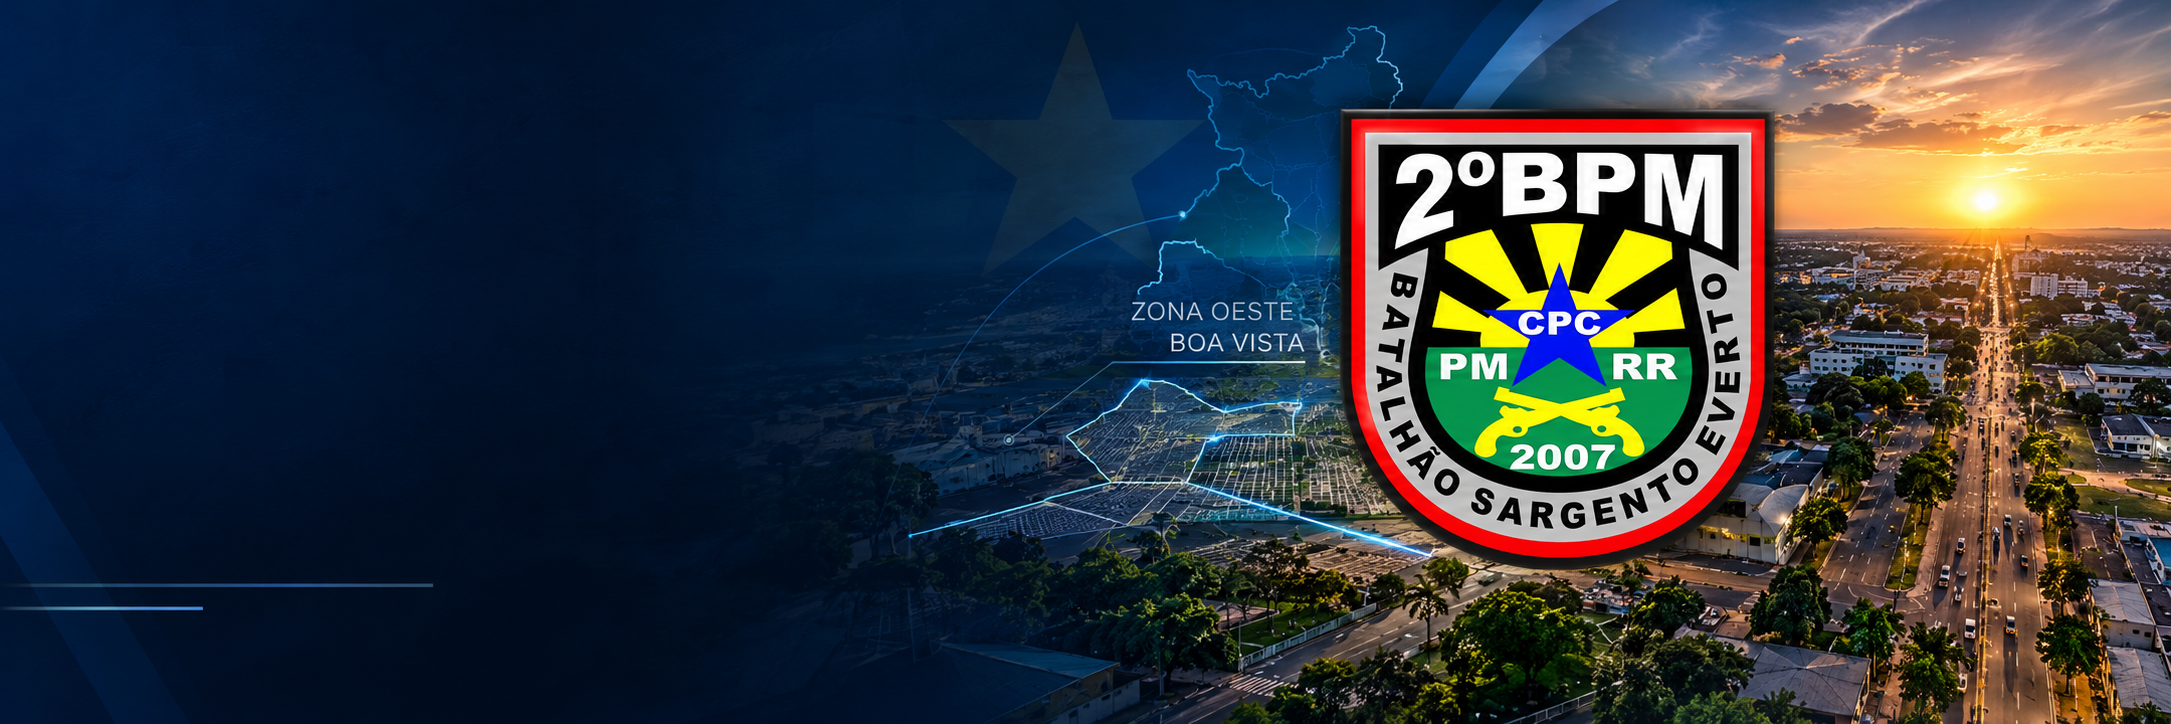
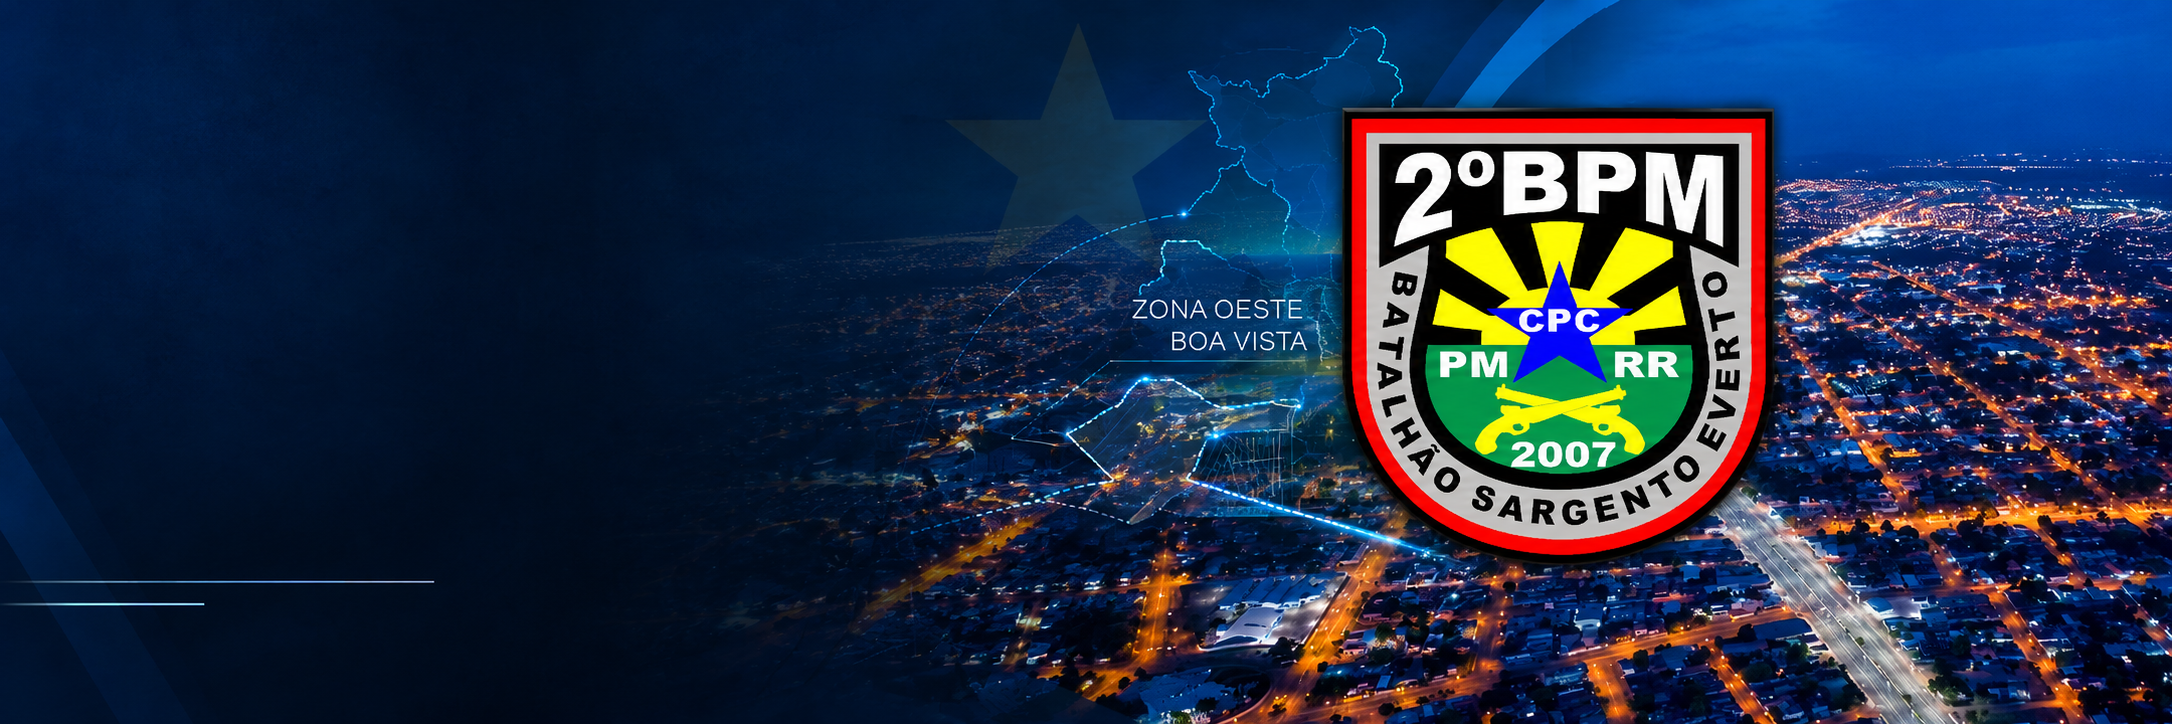
feat: atualiza capa do 2 BPM no painel e dashboard

diff --git a/index.html b/index.html
@@ -20,10 +20,10 @@ footer{text-align:center;color:var(--muted);font-size:12px;padding:12px 0 30px}
 @media(max-width:850px){.kpis{grid-template-columns:1fr 1fr}.layout,.insights{grid-template-columns:1fr}.actions{grid-template-columns:1fr 1fr}.search{grid-template-columns:1fr}.searchForm,.search input{width:100%}.top{align-items:flex-start}.hero{padding-left:5%;padding-right:5%}}@media(max-width:500px){.kpis{grid-template-columns:1fr}.hero{padding-bottom:65px}.container{margin-top:-40px}.actions,.compareGrid{grid-template-columns:1fr}.kpi{padding:17px}}@media(max-width:700px){body.modo-giro .hero{min-height:500px;background-position:58% center;background-image:linear-gradient(180deg,rgba(2,12,29,.92) 0%,rgba(2,18,39,.68) 55%,rgba(2,18,39,.38) 100%),url("assets/capa-giro-noturna.png?v=20261003-giro-banner2")}}@media(max-width:768px){body.modo-2bpm .hero{min-height:500px;background-position:76% center;background-image:linear-gradient(90deg,rgba(1,13,36,.99) 0%,rgba(1,19,48,.94) 48%,rgba(1,24,58,.56) 100%),url("assets/banners/2bpm-home-banner.png?v=20261012-2bpm-home2")}body.modo-2bpm .heroCopy{max-width:82%}}@media(max-width:768px){body.modo-ciptur .hero{min-height:500px;background-position:72% center;background-image:linear-gradient(90deg,rgba(2,16,45,.99) 0%,rgba(3,27,72,.97) 43%,rgba(3,35,82,.72) 68%,rgba(3,35,82,.32) 100%),url("assets/banners/ciptur-home-banner.png?v=20261002-ciptur-home-banner1")}body.modo-ciptur .heroCopy{max-width:82%}}
 .mapPanel{margin-top:18px}.mapFilters{display:flex;gap:10px;flex-wrap:wrap;margin:14px 0}.mapFilters select,.mapFilters input{border:1px solid #d5e0ea;border-radius:10px;padding:9px 11px;background:#fff;color:var(--ink)}#mapa{height:390px;border-radius:15px;overflow:hidden;background:#dfe8ef}.mapStatus{font-size:12px;color:var(--muted);margin-top:9px}.leaflet-popup-content{font-family:Inter,Segoe UI,Arial,sans-serif;line-height:1.4}.mapLegend{background:#fffffff2;border:1px solid #d8e2eb;border-radius:12px;padding:9px 11px;box-shadow:0 4px 14px #102a4322;line-height:1.7;color:#334155;font-size:11px}.mapLegend b{display:block;color:#102a43;margin-bottom:3px}.mapLegend i{display:inline-block;width:10px;height:10px;border-radius:50%;margin-right:6px;border:1px solid #fff;box-shadow:0 0 0 1px #94a3b8}.giro-moto-marker{background:transparent!important;border:0!important}.giro-moto-marker span{display:grid;place-items:center;width:26px;height:26px;font-size:21px;line-height:1;filter:grayscale(1) brightness(.15);transform:translateY(-1px);text-shadow:0 1px 1px #fff,0 0 2px #fff}.mapLegend .motoLegend{display:inline-block;width:auto;height:auto;border:0;box-shadow:none;border-radius:0;margin-right:5px;font-size:15px;filter:grayscale(1) brightness(.15)}.cpcScopeHero{margin-top:13px;display:inline-flex;gap:8px;flex-wrap:wrap;align-items:center;background:#ffffff12;border:1px solid #ffffff28;border-radius:12px;padding:9px 12px;color:#d8ebf5;font-size:12px;font-weight:800}.cpcUnitsPanel{margin-top:18px}.cpcUnitsGrid{display:grid;grid-template-columns:repeat(3,1fr);gap:12px}.cpcUnitCard{border:1px solid #dbe5ed;background:#fbfdff;border-radius:15px;padding:15px;text-align:left;cursor:pointer;color:var(--ink);transition:.18s;position:relative}.cpcUnitCard:hover,.cpcUnitCard.active{transform:translateY(-2px);border-color:#7da8c7;box-shadow:0 8px 22px #102e4a12}.cpcUnitCard.active{background:#eef7fb}.cpcUnitCard b{display:block;color:var(--navy);font-size:15px}.cpcUnitCard small{display:block;color:var(--muted);margin-top:3px}.cpcUnitMetrics{display:grid;grid-template-columns:repeat(4,1fr);gap:7px;margin-top:12px}.cpcUnitMetrics span{background:white;border:1px solid #e1e8ef;border-radius:9px;padding:8px 6px;text-align:center;font-size:10px;color:var(--muted)}.cpcUnitMetrics strong{display:block;color:var(--navy);font-size:16px;margin-bottom:2px}.cpcFilterActive{margin-top:10px;color:var(--blue);font-size:12px;font-weight:900}.cpcActionsTitle{margin-top:20px;background:linear-gradient(105deg,#071b33,#0e4f8a);color:#fff;border-radius:16px;padding:15px 18px}.cpcActionsTitle b{display:block;font-size:16px}.cpcActionsTitle span{display:block;color:#c9dceb;font-size:12px;margin-top:3px}.action.cpcPrimary{background:linear-gradient(120deg,#071b33,#0e4f8a);color:#fff;border-color:#0e4f8a;box-shadow:0 8px 22px #071b3320}.mapFilters .cpcOnly{display:none}body.modo-cpc .mapFilters .cpcOnly{display:inline-block}body.modo-cpc .search{border:1px solid #d6e4ee}@media(max-width:850px){.cpcUnitsGrid{grid-template-columns:1fr}.cpcUnitMetrics{grid-template-columns:1fr 1fr}}@media(max-width:500px){.cpcUnitMetrics{grid-template-columns:1fr 1fr}}
 </style><style id="2bpm-banner-styles-v2">
-body.modo-2bpm .hero{min-height:340px;background-color:#03172f;background-image:linear-gradient(90deg,rgba(1,14,38,.96) 0%,rgba(1,20,50,.82) 36%,rgba(1,24,57,.22) 68%),url("assets/banners/2bpm-home-banner.png?v=20261012-2bpm-home2");background-position:center,right center;background-size:100% 100%,contain;background-repeat:no-repeat;box-shadow:inset 0 -85px 90px rgba(1,13,34,.4)}
+body.modo-2bpm .hero{min-height:340px;background-color:#03172f;background-image:linear-gradient(90deg,rgba(1,14,38,.96) 0%,rgba(1,20,50,.82) 36%,rgba(1,24,57,.22) 68%),url("assets/banners/2bpm-home-banner.png?v=20261012-2bpm-night3");background-position:center,right center;background-size:100% 100%,contain;background-repeat:no-repeat;box-shadow:inset 0 -85px 90px rgba(1,13,34,.4)}
 body.modo-2bpm .hero:after{display:none}
 body.modo-2bpm .hero .top,body.modo-2bpm .hero .heroCopy{position:relative;z-index:1;text-shadow:0 2px 10px rgba(0,0,0,.88)}
-@media(max-width:768px){body.modo-2bpm .hero{min-height:420px;background-position:center,right center;background-size:100% 100%,contain;background-image:linear-gradient(90deg,rgba(1,13,36,.99) 0%,rgba(1,19,48,.95) 48%,rgba(1,24,58,.62) 100%),url("assets/banners/2bpm-home-banner.png?v=20261012-2bpm-home2")}body.modo-2bpm .heroCopy{max-width:82%}}
+@media(max-width:768px){body.modo-2bpm .hero{min-height:420px;background-position:center,right center;background-size:100% 100%,contain;background-image:linear-gradient(90deg,rgba(1,13,36,.99) 0%,rgba(1,19,48,.95) 48%,rgba(1,24,58,.62) 100%),url("assets/banners/2bpm-home-banner.png?v=20261012-2bpm-night3")}body.modo-2bpm .heroCopy{max-width:82%}}
 </style><style id="cipg-banner-styles">
 body.modo-cipg .hero{min-height:340px;background-color:#031734;background-image:linear-gradient(90deg,rgba(2,15,40,.98) 0%,rgba(2,25,64,.88) 35%,rgba(3,44,91,.31) 61%,rgba(3,44,91,.04) 82%),url("assets/banners/cipg-home-banner.png?v=20261009-cipg-banner1");background-position:center,right center;background-size:100% 100%,contain;background-repeat:no-repeat;box-shadow:inset 0 -85px 90px rgba(2,13,34,.44)}
 body.modo-cipg .hero:after{display:none}
@@ -177,6 +177,8 @@ function aplicarModo2Bpm(){
   document.body.classList.add("modo-2bpm");
   heroEyebrow.innerHTML='<i class="pulse"></i> Painel operacional do 2º BPM';
   heroTitulo.textContent="Visão rápida — 2º BPM";
+  var linkDashboard=document.querySelector('a[href^="dashboard.html"]');
+  if(linkDashboard)linkDashboard.href="dashboard.html?v=20261012-2bpm-night3";
 }
 function aplicarModo1Bpm(){
   document.body.classList.add("modo-1bpm");

diff --git a/dashboard.html b/dashboard.html
@@ -6,6 +6,12 @@ body.modo-cipg header .head{position:relative;z-index:1;padding:16px 18px;border
 body.modo-cipg header .head a{background:rgba(2,16,42,.58);backdrop-filter:blur(3px)}
 @media(max-width:720px){body.modo-cipg header{min-height:250px;padding:18px 3%;background-position:center,right center;background-image:linear-gradient(90deg,rgba(2,15,40,.99) 0%,rgba(2,24,59,.95) 55%,rgba(3,45,91,.62) 100%),url("assets/banners/cipg-home-banner.png?v=20261009-cipg-banner1")}body.modo-cipg header .head{width:100%;padding:12px;background:linear-gradient(90deg,rgba(2,16,42,.95),rgba(3,45,91,.48))}}
 </style>
+<style id="2bpm-dashboard-banner-styles">
+body.modo-2bpm header{min-height:clamp(220px,23vw,300px);display:flex;align-items:flex-end;padding:24px;background-color:#03172f;background-image:linear-gradient(90deg,rgba(1,14,38,.98) 0%,rgba(1,20,50,.84) 38%,rgba(1,24,57,.24) 72%),url("assets/banners/2bpm-home-banner.png?v=20261012-2bpm-night3");background-position:center,right center;background-size:100% 100%,contain;background-repeat:no-repeat;box-shadow:inset 0 -65px 85px rgba(1,13,34,.5)}
+body.modo-2bpm header .head{position:relative;z-index:1;padding:16px 18px;border-radius:16px;background:linear-gradient(90deg,rgba(1,14,38,.88),rgba(2,35,72,.2));backdrop-filter:blur(2px);text-shadow:0 2px 9px rgba(0,0,0,.92)}
+body.modo-2bpm header .head a{background:rgba(1,14,38,.58);backdrop-filter:blur(3px)}
+@media(max-width:720px){body.modo-2bpm header{min-height:250px;padding:18px 3%;background-position:center,right center;background-image:linear-gradient(90deg,rgba(1,13,36,.99) 0%,rgba(1,19,48,.95) 55%,rgba(1,24,58,.62) 100%),url("assets/banners/2bpm-home-banner.png?v=20261012-2bpm-night3")}body.modo-2bpm header .head{width:100%;padding:12px;background:linear-gradient(90deg,rgba(1,14,38,.95),rgba(2,35,72,.46))}}
+</style>
 <style id="cavalaria-dashboard-banner-styles">
 body.modo-cavalaria header{min-height:clamp(220px,23vw,300px);display:flex;align-items:flex-end;padding:24px;background-color:#03172f;background-image:linear-gradient(90deg,rgba(2,16,38,.98) 0%,rgba(2,25,55,.84) 38%,rgba(2,39,73,.24) 72%),url("assets/banners/cavalaria-home-banner.png?v=20261009-cavalaria-banner1");background-position:center,right center;background-size:100% 100%,contain;background-repeat:no-repeat;box-shadow:inset 0 -65px 85px rgba(2,13,31,.5)}
 body.modo-cavalaria header .head{position:relative;z-index:1;padding:16px 18px;border-radius:16px;background:linear-gradient(90deg,rgba(2,17,39,.88),rgba(3,38,72,.2));backdrop-filter:blur(2px);text-shadow:0 2px 9px rgba(0,0,0,.92)}
@@ -363,6 +369,15 @@ function ehGiro(){return siglaUnidadeAtiva()==='GIRO'}
 function ehCavalaria(){return siglaUnidadeAtiva()==='CAVALARIA'}
 function ehBope(){return siglaUnidadeAtiva()==='BOPE'}
 function ehPrimeiroBpm(){return siglaUnidadeAtiva()==='1BPM'}
+function ehSegundoBpm(){return siglaUnidadeAtiva()==='2BPM'}
+function configurarModuloSegundoBpm(){
+  const ativo=ehSegundoBpm();
+  document.body.classList.toggle('modo-2bpm',ativo);
+  if(!ativo)return;
+  const h=document.querySelector('header h1'),p=document.querySelector('header .head p');
+  if(h)h.textContent='Dashboard Operacional — 2º BPM';
+  if(p)p.textContent='Análise estatística operacional do 2º Batalhão de Polícia Militar';
+}
 function configurarModuloPrimeiroBpm(){
   const ativo=ehPrimeiroBpm();
   document.body.classList.toggle('modo-1bpm',ativo);
@@ -987,7 +1002,7 @@ document.querySelectorAll('[data-period]').forEach(b=>b.onclick=()=>{let h=new D
 aplicar.onclick=carregar;filtroTipoSubtracao.onchange=render;aisc.onchange=()=>{sisc.value='';setor.value='';popularTerritorio();render()};sisc.onchange=()=>{setor.value='';popularTerritorio();render()};setor.onchange=render;
 gerarPdf.onclick=()=>location.href='relatorio.html?v=20261012-1bpm-logo1&ini='+ini.value+'&fim='+fim.value+'&comparar='+comparar.value+'&sisc='+encodeURIComponent(sisc.value)+'&companhia='+encodeURIComponent(companhia.value)+'&subunidade_bope='+encodeURIComponent($('subunidadeBope')?.value||'');
 let h=new Date();ini.value=fmt(new Date(h.getFullYear(),h.getMonth(),1));fim.value=fmt(h);
-(async()=>{if(window.SistemaAuth?.ready)await window.SistemaAuth.ready;$('subunidadeBope')?.addEventListener('change',render);['cipaMunicipio','cipaArea','cipaOrigemFiltro'].forEach(id=>$(id)?.addEventListener('change',render));prepararFiltrosAbordagemGiro();configurarModuloCiptur();configurarModuloCipa();configurarModuloGiro();configurarModuloCavalaria();configurarModuloCipg();configurarModuloBope();configurarModuloPrimeiroBpm();
+(async()=>{if(window.SistemaAuth?.ready)await window.SistemaAuth.ready;$('subunidadeBope')?.addEventListener('change',render);['cipaMunicipio','cipaArea','cipaOrigemFiltro'].forEach(id=>$(id)?.addEventListener('change',render));prepararFiltrosAbordagemGiro();configurarModuloCiptur();configurarModuloCipa();configurarModuloGiro();configurarModuloCavalaria();configurarModuloCipg();configurarModuloBope();configurarModuloPrimeiroBpm();configurarModuloSegundoBpm();
 if(ehCipg()&&window.CipgDashboard){
  let debounceCipg;
  CipgDashboard.filtros.forEach(id=>{

diff --git a/tests/2bpm-home-banner.test.js b/tests/2bpm-home-banner.test.js
@@ -4,6 +4,7 @@ const path = require('node:path');
 
 const root = path.resolve(__dirname, '..');
 const home = fs.readFileSync(path.join(root, 'index.html'), 'utf8');
+const dashboard = fs.readFileSync(path.join(root, 'dashboard.html'), 'utf8');
 const banner = path.join(root, 'assets', 'banners', '2bpm-home-banner.png');
 
 assert.ok(fs.existsSync(banner), 'banner institucional do 2º BPM ausente');
@@ -11,7 +12,8 @@ assert.match(home, /modo2Bpm=!modoCpc&&siglaAtiva==="2BPM"/);
 assert.match(home, /function aplicarModo2Bpm\(\)/);
 assert.match(home, /classList\.add\("modo-2bpm"\)/);
 assert.match(home, /body\.modo-2bpm \.hero/);
-assert.match(home, /assets\/banners\/2bpm-home-banner\.png\?v=20261012-2bpm-home2/);
+assert.match(home, /assets\/banners\/2bpm-home-banner\.png\?v=20261012-2bpm-night3/);
+assert.match(home, /dashboard\.html\?v=20261012-2bpm-night3/);
 assert.match(home, /id="2bpm-banner-styles-v2"/);
 assert.match(home, /body\.modo-2bpm \.hero\{min-height:340px[\s\S]*?background-size:100% 100%,contain/);
 assert.match(home, /body\.modo-giro \.hero/);
@@ -19,5 +21,11 @@ assert.match(home, /assets\/capa-giro-noturna\.png/);
 assert.match(home, /body\.modo-ciptur \.hero/);
 assert.match(home, /assets\/banners\/ciptur-home-banner\.png/);
 assert.doesNotMatch(home, /siglaAtiva==="(?:GIRO|CIPTUR|CPC|CAVALARIA)"[^;]*modo2Bpm=true/);
+assert.match(dashboard, /id="2bpm-dashboard-banner-styles"/);
+assert.match(dashboard, /function ehSegundoBpm\(\)/);
+assert.match(dashboard, /classList\.toggle\('modo-2bpm',ativo\)/);
+assert.match(dashboard, /assets\/banners\/2bpm-home-banner\.png\?v=20261012-2bpm-night3/);
+assert.match(dashboard, /Dashboard Operacional — 2º BPM/);
+assert.match(dashboard, /configurarModuloSegundoBpm\(\)/);
 
-console.log('Banner exclusivo do 2º BPM validado.');
+console.log('Banner exclusivo do 2º BPM validado na home e no dashboard.');
